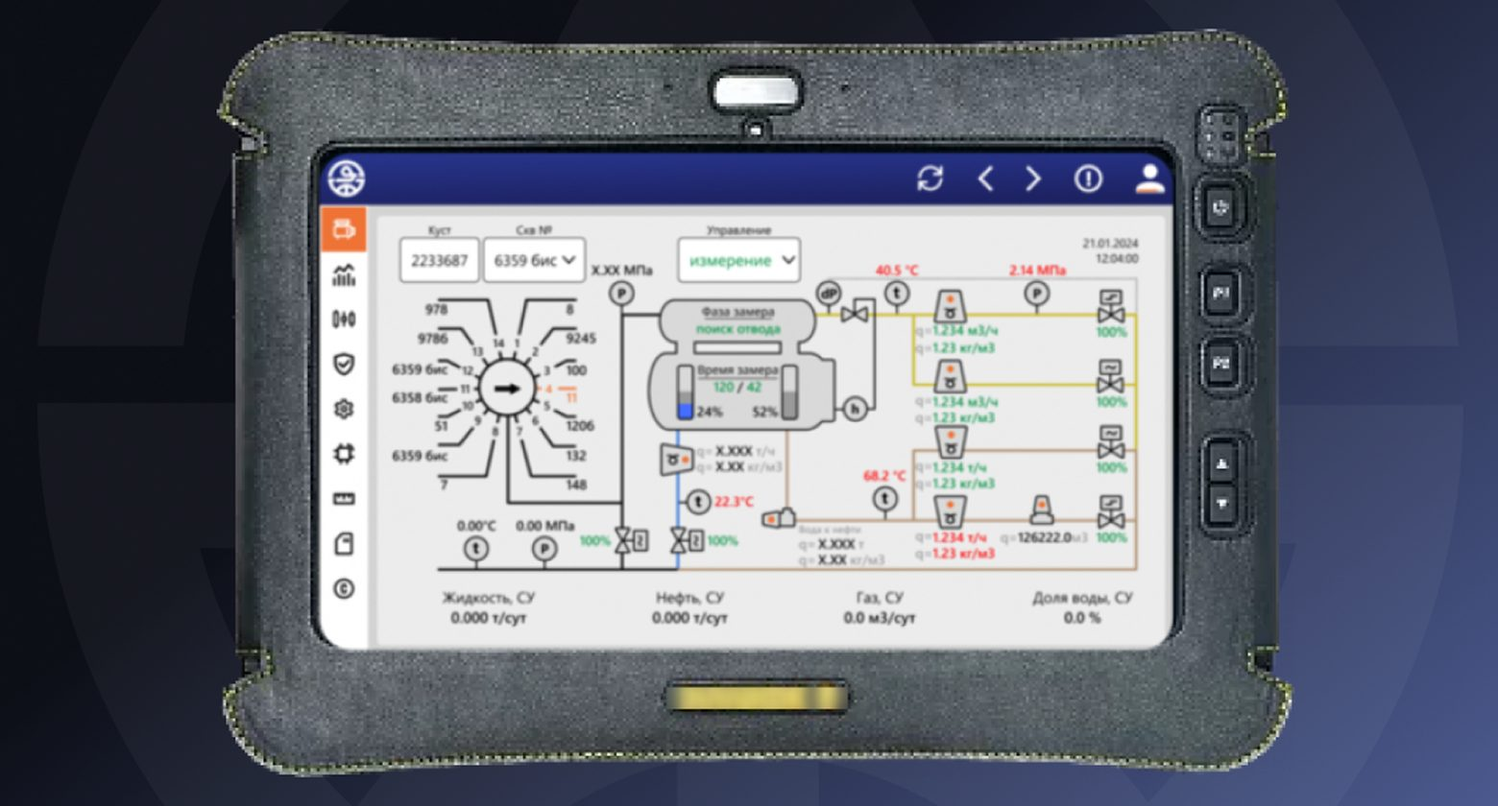
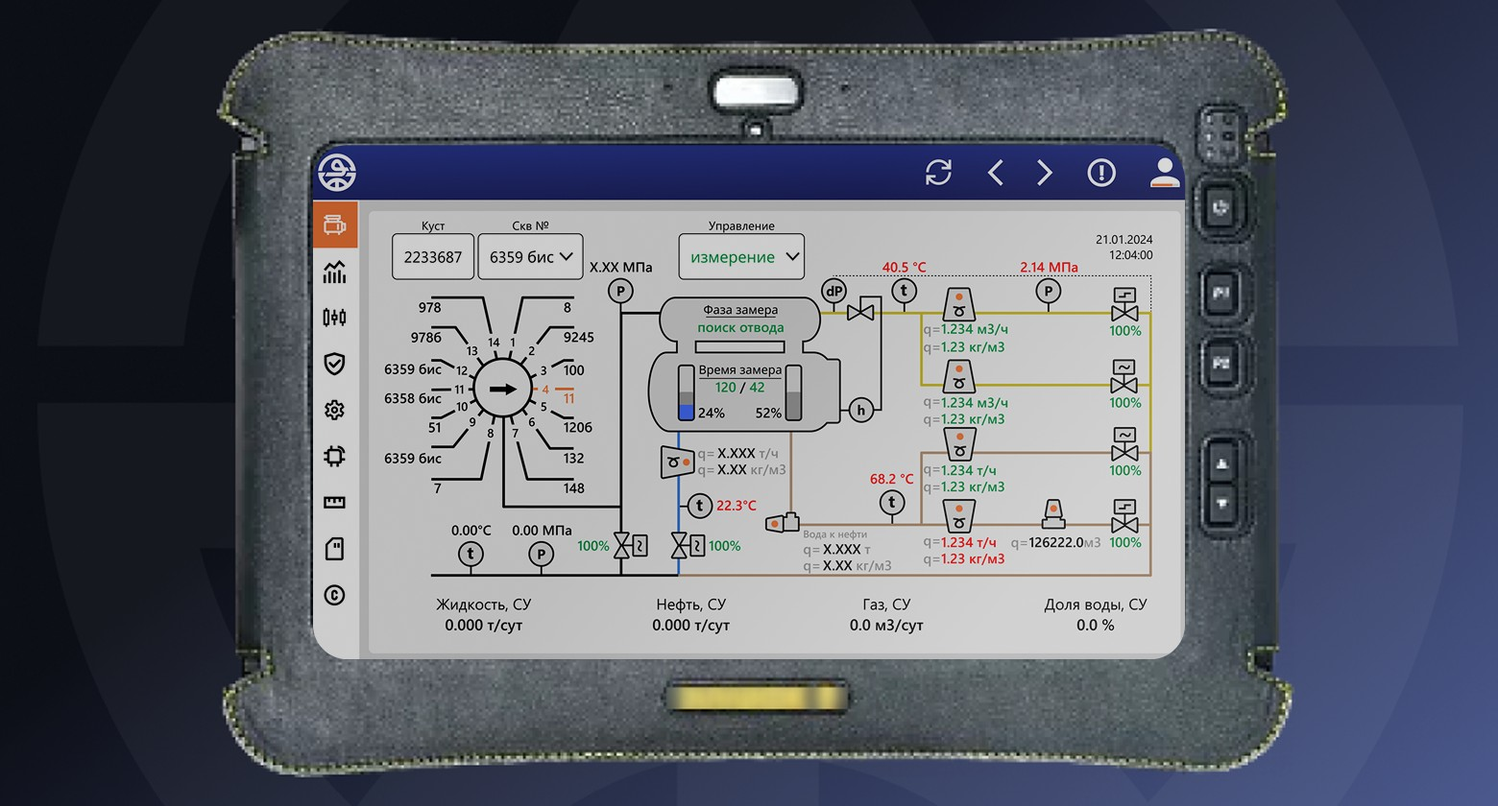
Add files via upload

diff --git a/index.html b/index.html
@@ -226,6 +226,69 @@ main{padding-bottom:calc(var(--dock) + 24px + env(safe-area-inset-bottom,0px))}
 .frame{height:clamp(420px,70vh,780px);overflow-y:auto;background:var(--tint);border:1px solid var(--line);overscroll-behavior:contain}
 .frame img{width:100%;height:auto}
 .hint{font-size:12px;letter-spacing:.06em;text-transform:uppercase;color:var(--muted)}
+/* скрин с пояснением, слайдер до/после, лайтбокс */
+.shot{display:grid;gap:18px;align-items:start}
+@media (min-width:1024px){.shot{grid-template-columns:minmax(0,1.75fr) minmax(260px,1fr);gap:28px}}
+.media{position:relative;background:var(--tint);overflow:hidden}
+.media>img{width:100%;height:auto}
+.pill{position:absolute;top:12px;z-index:3;font:500 12px/1 var(--f-mono);letter-spacing:.04em;padding:7px 10px;background:var(--ink);color:var(--bg);pointer-events:none}
+.pill--l{left:12px}.pill--r{right:12px}
+.zoom{position:absolute;z-index:4;bottom:12px;left:50%;transform:translateX(-50%);display:inline-flex;align-items:center;gap:7px;font:500 12px/1 var(--f-mono);padding:7px 11px;background:var(--bg);color:var(--ink);border:1px solid var(--line);cursor:zoom-in;transition:border-color .2s}
+.zoom:hover{border-color:var(--ink)}
+.zoom svg{width:13px;height:13px}
+.media:not(.ba) .zoom{left:auto;right:12px;transform:none}
+.ba{--pos:50%;aspect-ratio:1600/937;max-width:100%;touch-action:pan-y;cursor:ew-resize;user-select:none;-webkit-user-select:none}
+.ba img{position:absolute;inset:0;width:100%;height:100%;object-fit:cover;pointer-events:none}
+.ba__before{clip-path:inset(0 calc(100% - var(--pos)) 0 0)}
+.ba__line{position:absolute;top:0;bottom:0;left:var(--pos);width:2px;margin-left:-1px;background:var(--bg);z-index:2;box-shadow:0 0 0 1px rgb(0 0 0 / .12)}
+.ba__knob{position:absolute;top:50%;left:50%;transform:translate(-50%,-50%);width:46px;height:46px;border-radius:50%;border:0;background:var(--bg);color:var(--ink);box-shadow:0 6px 20px rgb(0 0 0 / .22);display:grid;place-items:center;font:500 15px/1 var(--f-mono);cursor:ew-resize;transition:transform .2s var(--ease)}
+.ba__knob:hover{transform:translate(-50%,-50%) scale(1.08)}
+.ba.is-hint .ba__before{transition:clip-path .9s var(--ease)}.ba.is-hint .ba__line{transition:left .9s var(--ease)}
+.note-card{background:var(--tint);padding:clamp(20px,2.2vw,28px);display:grid;gap:14px;align-content:start}
+.note-card h3{font-family:var(--f-logo);font-weight:500;font-size:clamp(17px,1.4vw,20px);letter-spacing:-.02em}
+.chg{justify-self:start;display:inline-flex;align-items:center;gap:7px;font:500 12.5px/1 var(--f-mono);padding:8px 12px;background:var(--bg)}
+.chg svg{width:14px;height:14px}
+.note-card p{font-family:var(--f-text);font-size:15.5px;line-height:1.65}
+.note-card p.why{color:var(--muted)}
+.note-card p.why b{color:var(--ink);font-weight:500}
+.lb{position:fixed;inset:0;z-index:90;background:color-mix(in srgb,var(--bg) 94%,transparent);backdrop-filter:blur(6px);-webkit-backdrop-filter:blur(6px);display:grid;place-items:center;padding:calc(56px + env(safe-area-inset-top,0px)) max(16px,env(safe-area-inset-right,0px)) calc(24px + env(safe-area-inset-bottom,0px)) max(16px,env(safe-area-inset-left,0px));animation:viewIn .3s var(--ease)}
+.lb__body{width:100%;display:grid;place-items:center;min-height:0}
+.lb__body>img{max-width:100%;max-height:calc(100svh - 110px);width:auto;height:auto}
+.lb .ba{width:min(100%, calc((100svh - 110px) * 1.7076))}
+.lb .zoom{display:none}
+.lb__close{position:absolute;top:calc(12px + env(safe-area-inset-top,0px));right:max(16px,env(safe-area-inset-right,0px));height:38px;padding:0 14px;font:500 13px/1 var(--f-mono);background:var(--ink);color:var(--bg);border:0;cursor:pointer}
+
+/* приоритизация гипотез (ICE) */
+.ice__head{display:none}
+.ice__row{display:grid;grid-template-columns:repeat(3,auto) 1fr;gap:12px 18px;padding:20px 0;border-top:1px solid var(--line);align-items:baseline}
+.ice__row:first-of-type{border-top:0;padding-top:0}
+.ice__row p{grid-column:1/-1;font-family:var(--f-text);font-size:16px;line-height:1.6}
+.ice__row span{font-size:13px;color:var(--muted);font-variant-numeric:tabular-nums}
+.ice__row span::before{content:attr(data-k) " "}
+.ice__score b{color:var(--ink);font-weight:700;font-size:16px}
+.ice__score i{display:block;height:3px;background:var(--line);margin-top:8px;position:relative;min-width:60px}
+.ice__score i::after{content:"";position:absolute;inset:0 auto 0 0;width:var(--w);background:var(--ink)}
+.ice__note{font-size:12.5px;color:var(--muted);margin-top:18px}
+@media (min-width:768px){
+  .ice__head,.ice__row{grid-template-columns:minmax(0,1fr) 64px 92px 52px 100px;gap:20px}
+  .ice__head{display:grid;padding-bottom:14px;border-bottom:1px solid var(--line);margin-bottom:20px}
+  .ice__head span:not(:first-child){text-align:right}
+  .ice__row p{grid-column:auto}
+  .ice__row span{text-align:right;font-size:14.5px;color:var(--ink)}
+  .ice__row span::before{content:none}
+  .ice__score{text-align:right}
+}
+.chips{display:flex;flex-wrap:wrap;gap:8px;margin-bottom:28px}
+.chips span{font-size:13.5px;padding:9px 13px;background:var(--tint)}
+
+/* карточки метрик */
+.res{background:var(--tint);padding:22px;gap:10px!important;grid-template-rows:auto auto 1fr auto;align-content:stretch!important}
+.res strong{font-size:clamp(28px,2.6vw,40px)!important}
+.res__t{font-weight:500;font-size:14.5px}
+.res span{font-family:var(--f-text);font-size:14.5px!important;line-height:1.6}
+.st{justify-self:start;align-self:end;margin-top:6px;display:inline-flex;align-items:center;gap:7px;font:500 12px/1 var(--f-mono);font-style:normal;padding:7px 10px;background:var(--bg)}
+.st::before{content:"";width:7px;height:7px;border-radius:50%;background:var(--muted)}
+.st--ok::before{background:var(--ok)}
 .results{display:grid;grid-template-columns:repeat(auto-fit,minmax(180px,1fr));gap:32px 24px}
 .results div{display:grid;gap:8px;align-content:start}
 .results strong{font-family:var(--f-logo);font-weight:500;font-size:clamp(24px,2.4vw,34px);line-height:1;letter-spacing:-.02em;font-variant-numeric:tabular-nums}
@@ -440,9 +503,21 @@ const PROJECTS = [
       ['UX-тестирования','Провела первые в компании модерируемые тесты, а также коридорные и A/B-тесты.'],
       ['Дизайн-система','Токены цвета, типографики и отступов, документация для двух команд разработки.']],
     gallery:[
-      {src:'sc-editor.jpg',w:'full',cap:'Редактор мнемосхем: дерево объектов слева, холст в центре, свойства и привязка сигнала справа. Статусы задвижек видны прямо на схеме.'},
-      {src:'sc-table.jpg',cap:'Журнал замеров по скважинам: фильтры-чипы, выбор периода, экспорт и график изменений под таблицей.'},
-      {src:'sc-chart.jpg',cap:'Сравнение показаний виртуального расходомера и датчика потока на одном графике с общим курсором.'}],
+      {src:'sc-editor.jpg', title:'Редактор мнемосхем',
+       change:'Редактор собран в три зоны: дерево объектов, холст и панель свойств. Привязка сигнала живёт рядом со схемой, редкие действия ушли в контекстное меню с горячими клавишами.',
+       why:'Инженер собирал схему, переключаясь между окнами, а у конкурентов на одном экране десятки панелей. Ключевые действия должны быть под рукой, остальное открываться по контексту.'},
+      {src:'sc-table.jpg', title:'Журнал замеров',
+       change:'Таблица замеров с фильтрами-чипами, выбором периода и экспортом. Под таблицей график изменений за тот же период.',
+       why:'Чтобы сравнить показания, оператор выгружал данные и сводил их вручную. Теперь история и динамика видны на одном экране.'},
+      {src:'sc-chart.jpg', title:'График скважины',
+       change:'Показания виртуального расходомера и датчика потока на одном графике с общим курсором и значениями в легенде.',
+       why:'Расхождение между двумя источниками важно заметить сразу, а не сверять цифры в двух окнах.'}],
+    ice:[
+      ['Если выделить аварийные статусы цветом и плашками прямо на схеме, оператор быстрее заметит отклонение.',9,8,8],
+      ['Если вынести привязку сигнала в панель свойств рядом с холстом, инженер реже ошибётся при привязке.',7,7,8],
+      ['Если собрать редактор в три зоны (объекты, холст, свойства), инженер быстрее соберёт типовую мнемосхему.',8,8,6],
+      ['Если повторить паттерны графических редакторов (контекстное меню, горячие клавиши), новый инженер начнёт работать без обучения.',6,7,9],
+      ['Если добавить журнал замеров с фильтрами и графиком за период, оператору не придётся выгружать данные вручную.',7,7,5]],
     results:[['~20%','быстрее отрисовка типовых мнемосхем'],['3.2 → 4.5','CES ключевых сценариев из 5'],['−30%','времени на проектирование'],['−25%','вопросов от разработчиков']] },
   { id:'landing', title:'OZNA Digital Solutions', img:'landing.jpg', focus:'50% 40%', year:'2024',
     tags:'Лендинг · Desktop · Mobile',
@@ -459,13 +534,35 @@ const PROJECTS = [
     tags:'Планшет · Touch · Полевые условия',
     short:'Интерфейс расходомера для планшета. Повысила читаемость данных и сделала управление удобным даже в перчатках.',
     meta:{'Роль':'UX/UI-дизайнер','Компания':'ОЗНА','Платформа':'Планшет, Linux','Условия':'Работа в перчатках на улице'},
-    task:['Оператор пользуется планшетом на улице и в перчатках. Мелкие элементы и плотные экраны приводили к ошибочным нажатиям и плохой читаемости.','Задача: адаптировать продукт под планшет и спроектировать новые экраны внутри него.'],
-    process:[['Анализ условий','Изучила, где и как используется устройство и какие данные нужны в первую очередь.'],['Тест «до»','Зафиксировала исходное количество ошибочных нажатий.'],['Редизайн','Увеличила touch-зоны и кнопки, перестроила иерархию данных.'],['Тест «после»','Повторила тестирование и сравнила с исходными результатами.']],
+    task:['Оператор работает с планшетом на улице и в перчатках. Мелкие кнопки, меню из одних иконок и технические имена параметров (t_lc, kv_sg, wcfg) приводили к промахам и мешали быстро прочитать показания.',
+          'Задача: адаптировать продукт под планшет в полевых условиях и спроектировать новые экраны внутри него.'],
+    process:[
+      ['Анализ условий','Изучила, где и как используется устройство и какие данные нужны в первую очередь.'],
+      ['Аудит экранов','Собрала проблемы: мелкие touch-зоны, меню без подписей, технические имена вместо понятных названий, одинаковый цвет для нормы и отклонения.'],
+      ['Тест «до»','Зафиксировала исходное количество ошибочных нажатий.'],
+      ['Редизайн','Увеличила touch-зоны и кнопки, подписала меню, заменила теги понятными названиями, перестроила иерархию данных.'],
+      ['Тест «после»','Повторила тестирование и сравнила с исходными результатами.']],
+    ice:[
+      ['Если увеличить кнопки и пункты меню под работу в перчатках, ошибочных нажатий станет меньше.',10,9,8],
+      ['Если заменить технические имена (t_lc, kv_sg) понятными названиями с единицами, оператор прочитает показание без справочника.',9,8,7],
+      ['Если подписать пункты меню текстом, а не только иконками, оператор быстрее найдёт нужный раздел.',7,8,9],
+      ['Если сделать значения крупнее и выделить отклонения цветом, их будет видно на улице при ярком свете.',8,8,7],
+      ['Если показать диагностику списком проверок «да/нет», оператор сразу увидит, что именно неисправно.',8,7,6]],
     gallery:[
-      {src:'ms-scheme.jpg',w:'full',cap:'Мнемосхема замерной установки: крупные значения, цветовые статусы и итоговые показатели внизу экрана.'},
-      {src:'ms-switch.jpg',cap:'Диагностика переключателя скважин: каждая проверка в отдельной строке, неисправность выделена цветом.'},
-      {src:'ms-measure.jpg',cap:'Таблица измерений: фильтры сверху, крупные строки и пункты меню, удобные для нажатия в перчатках.'}],
-    results:[['Крупнее','touch-зоны и кнопки для работы в перчатках'],['Меньше','ошибочных нажатий по тестам до и после']] },
+      {src:'ms-scheme.jpg', before:'ms-scheme-before.jpg', title:'Мнемосхема',
+       change:'Технические имена (t_lc, pcoll, AIValueBox) заменены понятными подписями с единицами. Значения крупнее, отклонения выделены красным, норма зелёным.',
+       why:'Оператор не обязан помнить имена тегов. В поле на схему есть секунды, а прочерки и одинаковый цвет не показывают, где проблема.'},
+      {src:'ms-switch.jpg', before:'ms-switch-before.jpg', title:'Переключатель скважин',
+       change:'Сырые параметры конфигурации (wcfg, kv_sg) превратились в диагностику: каждая проверка отдельной строкой с ответом «да/нет», неисправность выделена цветом.',
+       why:'Список переменных без расшифровки не отвечает на главный вопрос оператора: исправен ли переключатель и что сломалось.'},
+      {src:'ms-measure.jpg', before:'ms-measure-before.jpg', title:'Измерение',
+       change:'Вместо журнала с пустыми колонками таблица показателей по фазам: жидкость, нефть, вода, газ с единицами. Меню стало крупнее и получило подписи.',
+       why:'Иконки без подписей приходилось запоминать, а в перчатках по мелким пунктам легко промахнуться.'}],
+    results:[
+      {v:'↓', t:'Misclick rate', d:'Доля ошибочных нажатий в перчатках. Крупные кнопки и пункты меню, сравнили на тестах до и после.'},
+      {v:'↑', t:'Читаемость показаний', d:'Понятные названия вместо тегов, крупные значения и цветовые статусы.'},
+      {v:'↓', t:'Time on task', d:'Время, за которое оператор находит нужный показатель: меню подписано, не нужно вспоминать, что за иконкой или тегом.'},
+      {v:'↑', t:'Task success rate', d:'Доля задач, которые оператор выполняет сам, без справочника по тегам и звонка инженеру.'}] },
   { id:'essence', title:'Essence', img:'essence.jpg', focus:'50% 50%', year:'2023',
     tags:'E-commerce · Mobile · Fashion',
     short:'Мобильное приложение магазина одежды. Полный цикл за 2,5 недели: от исследований до интерактивного прототипа.',
@@ -490,6 +587,27 @@ document.getElementById('works').innerHTML = PROJECTS.map((p,i)=>`
       <span class="tg">${esc(p.tags)}</span><p>${esc(p.short)}</p></div>
   </a>`).join('');
 
+const ICON_CHG = '<svg viewBox="0 0 16 16" fill="none" stroke="currentColor" stroke-width="1.5" aria-hidden="true"><path d="M13.5 6.5A5.5 5.5 0 0 0 3.2 4.6M2.5 9.5a5.5 5.5 0 0 0 10.3 1.9M3 2v3h3M13 14v-3h-3"/></svg>';
+const ICON_ZOOM = '<svg viewBox="0 0 16 16" fill="none" stroke="currentColor" stroke-width="1.5" aria-hidden="true"><circle cx="7" cy="7" r="4.5"/><path d="M10.5 10.5 14 14M7 5v4M5 7h4"/></svg>';
+/* картинка или слайдер «до/после» с кнопкой «Приблизить» */
+function mediaHTML(g){
+  const zoom = `<button class="zoom" type="button" data-zoom>${ICON_ZOOM}Приблизить</button>`;
+  if(g.before) return `<div class="media ba" data-ba>
+      <img class="ba__after" src="${g.src}" alt="${esc(g.title||'')}, после" loading="lazy">
+      <img class="ba__before" src="${g.before}" alt="${esc(g.title||'')}, до" loading="lazy">
+      <span class="pill pill--l">До</span><span class="pill pill--r">После</span>${zoom}
+      <div class="ba__line"><button class="ba__knob" type="button" role="slider" aria-label="Сравнить до и после" aria-valuemin="0" aria-valuemax="100" aria-valuenow="50">‹›</button></div>
+    </div>`;
+  return `<div class="media"><img src="${g.src}" alt="${esc(g.title||g.cap||'')}" loading="lazy">${zoom}</div>`;
+}
+/* ICE: оценки 1–10, итог = I × C × E, сортировка по убыванию */
+function iceHTML(list){
+  const rows = list.map(h=>({t:h[0],i:h[1],c:h[2],e:h[3],s:h[1]*h[2]*h[3]})).sort((a,b)=>b.s-a.s);
+  return `<div class="ice"><div class="ice__head label"><span>Гипотеза</span><span>Impact</span><span>Confidence</span><span>Ease</span><span>ICE</span></div>
+    ${rows.map(r=>`<div class="ice__row"><p>${esc(r.t)}</p><span data-k="Impact">${r.i}</span><span data-k="Confidence">${r.c}</span><span data-k="Ease">${r.e}</span><span class="ice__score" data-k="ICE"><b>${r.s}</b></span></div>`).join('')}
+    </div><p class="ice__note">ICE = Impact × Confidence × Ease, каждый параметр от 1 до 10.</p>`;
+}
+
 function caseHTML(p){
   const i = PROJECTS.indexOf(p), n = PROJECTS[(i+1)%PROJECTS.length];
   const row = (l,b)=>`<div class="row"><span class="label">${l}</span>${b}</div>`;
@@ -501,15 +619,19 @@ function caseHTML(p){
   <dl class="meta">${Object.entries(p.meta).map(([k,v])=>`<div><dt class="label">${esc(k)}</dt><dd>${esc(v)}</dd></div>`).join('')}</dl>
   ${row('Задача',`<div class="row__body">${p.task.map((t,j)=>`<p${j?' class="muted"':''}>${esc(t)}</p>`).join('')}</div>`)}
   ${p.users ? row('Пользователи',`<div class="segs">${p.users.map(u=>`<div class="seg"><h3>${esc(u.who)}</h3><p class="seg__role">${esc(u.role)}</p><span class="label">Боли</span><ul>${u.pains.map(x=>`<li>${esc(x)}</li>`).join('')}</ul></div>`).join('')}</div>`) : ''}
-  ${p.compare ? row('Конкуренты',`<div class="cmp"><p class="cmp__names">${esc(p.compare.names)}</p><div class="cmp__head" aria-hidden="true"><span class="label">Проблема у конкурентов</span><span class="label">Как решили мы</span></div>${p.compare.rows.map(r=>`<div class="cmp__row"><div><b>${esc(r[0])}</b><p>${esc(r[1])}</p></div><p class="cmp__ours"><span class="label">Решение</span>${esc(r[2])}</p></div>`).join('')}</div>`) : ''}
+  ${p.compare ? row('Конкуренты',`<div class="cmp"><div class="chips">${p.compare.names.split(' · ').map(n=>`<span>${esc(n)}</span>`).join('')}</div><div class="cmp__head" aria-hidden="true"><span class="label">Проблема у конкурентов</span><span class="label">Как решили мы</span></div>${p.compare.rows.map(r=>`<div class="cmp__row"><div><b>${esc(r[0])}</b><p>${esc(r[1])}</p></div><p class="cmp__ours"><span class="label">Решение</span>${esc(r[2])}</p></div>`).join('')}</div>`) : ''}
   ${row('Процесс',`<div class="steps">${p.process.map((s,j)=>`<div><span>${String(j+1).padStart(2,'0')}</span><p><b>${esc(s[0])}</b>${esc(s[1])}</p></div>`).join('')}</div>`)}
+  ${p.ice ? row('Гипотезы', iceHTML(p.ice)) : ''}
   <div class="wide"><span class="label">Решения</span><div class="gal">${p.gallery.map(g=>{
     const cls = g.w==='full' ? ' class="full"' : '';
+    if(g.change) return `<figure class="full shot">${mediaHTML(g)}<div class="note-card">${g.title?`<h3>${esc(g.title)}</h3>`:''}<span class="chg">${ICON_CHG}Изменили</span><p>${esc(g.change)}</p><p class="why"><b>Почему:</b> ${esc(g.why)}</p></div></figure>`;
     if(g.t==='phones') return `<figure${cls}><div class="phones">${g.src.map(s=>`<img src="${s}" alt="" loading="lazy">`).join('')}</div><figcaption>${esc(g.cap)}</figcaption></figure>`;
     if(g.t==='scroll') return `<figure${cls}><div class="frame" tabindex="0" aria-label="${esc(g.cap)}"><img src="${g.src}" alt="${esc(g.cap)}" loading="lazy"></div><figcaption>${esc(g.cap)} <span class="hint">· прокрутите</span></figcaption></figure>`;
     return `<figure${cls}><div class="g-img"><img src="${g.src}" alt="${esc(g.cap)}" loading="lazy"></div><figcaption>${esc(g.cap)}</figcaption></figure>`;
   }).join('')}</div></div>
-  ${row('Результаты',`<div class="results">${p.results.map(r=>`<div><strong>${esc(r[0])}</strong><span>${esc(r[1])}</span></div>`).join('')}</div>`)}
+  ${row('Результаты',`<div class="results">${p.results.map(r=> Array.isArray(r)
+      ? `<div><strong>${esc(r[0])}</strong><span>${esc(r[1])}</span></div>`
+      : `<div class="res"><strong>${esc(r.v)}</strong><b class="res__t">${esc(r.t)}</b><span>${esc(r.d)}</span>${r.s?`<em class="st st--${r.s}">${r.s==='ok'?'Подтверждено тестами':'Ожидаемый эффект'}</em>`:''}</div>`).join('')}</div>`)}
   <a class="next" href="#${n.id}"><span class="label">Следующий проект</span><h2>${esc(n.title)} →</h2></a>`;
 }
 
@@ -550,7 +672,7 @@ const spy = new IntersectionObserver(es=>{
 
 /* элементы, которые мягко появляются при прокрутке */
 function markReveal(root){
-  root.querySelectorAll('.head,.work,.row,.job,.wide figure,.next,.meta,.case-cover,.seg,.cmp__row').forEach(el=>el.classList.add('rv'));
+  root.querySelectorAll('.head,.work,.row,.job,.wide figure,.next,.meta,.case-cover,.seg,.cmp__row,.shot,.ice__row,.res').forEach(el=>el.classList.add('rv'));
 }
 
 /* типографика: короткие слова (в, и, из, для…) и тире не остаются в конце строки */
@@ -582,6 +704,64 @@ document.querySelectorAll('[data-copy]').forEach(b=>b.addEventListener('click',(
   const fail = ()=>{ const r=document.createRange(); r.selectNodeContents(b); const s=getSelection(); s.removeAllRanges(); s.addRange(r); toast('Почта выделена — скопируйте её'); };
   try{ navigator.clipboard.writeText(mail).then(()=>toast('Почта скопирована'), fail); }catch(_){ fail(); }
 }));
+
+/* слайдер «до/после»: перетаскивание, клик, стрелки */
+function setPos(ba, x){
+  const r = ba.getBoundingClientRect();
+  const v = Math.max(0, Math.min(100, (x - r.left) / r.width * 100));
+  ba.style.setProperty('--pos', v + '%');
+  const k = ba.querySelector('.ba__knob'); if(k) k.setAttribute('aria-valuenow', Math.round(v));
+}
+document.addEventListener('pointerdown', e=>{
+  const ba = e.target.closest('[data-ba]');
+  if(!ba || e.target.closest('.zoom')) return;
+  ba.classList.remove('is-hint');
+  setPos(ba, e.clientX);
+  const move = ev=>setPos(ba, ev.clientX);
+  const up = ()=>{ window.removeEventListener('pointermove', move); window.removeEventListener('pointerup', up); window.removeEventListener('pointercancel', up); };
+  window.addEventListener('pointermove', move); window.addEventListener('pointerup', up); window.addEventListener('pointercancel', up);
+});
+document.addEventListener('keydown', e=>{
+  const k = e.target.closest && e.target.closest('.ba__knob');
+  if(!k || !/Arrow(Left|Right)|Home|End/.test(e.key)) return;
+  e.preventDefault();
+  const ba = k.closest('[data-ba]');
+  let v = parseFloat(getComputedStyle(ba).getPropertyValue('--pos')) || 50;
+  v = e.key==='Home' ? 0 : e.key==='End' ? 100 : v + (e.key==='ArrowLeft' ? -5 : 5);
+  v = Math.max(0, Math.min(100, v));
+  ba.style.setProperty('--pos', v + '%'); k.setAttribute('aria-valuenow', Math.round(v));
+});
+/* подсказка: при первом показе линия слегка сдвигается, чтобы было понятно, что её можно тянуть */
+const hintIO = new IntersectionObserver(es=>es.forEach(en=>{
+  if(!en.isIntersecting || matchMedia('(prefers-reduced-motion:reduce)').matches) return;
+  const ba = en.target; hintIO.unobserve(ba); ba.classList.add('is-hint');
+  setTimeout(()=>ba.style.setProperty('--pos','32%'), 250);
+  setTimeout(()=>ba.style.setProperty('--pos','50%'), 1150);
+  setTimeout(()=>ba.classList.remove('is-hint'), 2100);
+}),{threshold:.6});
+new MutationObserver(()=>document.querySelectorAll('#v-case [data-ba]:not([data-h])').forEach(b=>{ b.dataset.h=1; hintIO.observe(b); }))
+  .observe(document.getElementById('v-case'),{childList:true});
+
+/* «Приблизить»: экран целиком поверх страницы */
+let lb = null;
+function closeLb(){ if(!lb) return; lb.remove(); lb = null; document.documentElement.style.overflow=''; }
+document.addEventListener('click', e=>{
+  const z = e.target.closest('[data-zoom]');
+  if(z){
+    const media = z.closest('.media').cloneNode(true);
+    if(media.matches('[data-ba]')) media.removeAttribute('data-h');
+    lb = document.createElement('div'); lb.className='lb'; lb.setAttribute('role','dialog'); lb.setAttribute('aria-modal','true');
+    lb.innerHTML = '<button class="lb__close" type="button">Закрыть ×</button><div class="lb__body"></div>';
+    const body = lb.querySelector('.lb__body');
+    body.append(media.matches('[data-ba]') ? media : media.querySelector('img'));
+    document.body.append(lb); document.documentElement.style.overflow='hidden';
+    lb.querySelector('.lb__close').focus();
+    return;
+  }
+  if(lb && (e.target.closest('.lb__close') || e.target===lb || e.target.classList.contains('lb__body'))) closeLb();
+});
+document.addEventListener('keydown', e=>{ if(e.key==='Escape') closeLb(); });
+window.addEventListener('hashchange', closeLb);
 
 /* местное время в шапке — удобно рекрутеру из другого часового пояса */
 const clock = document.getElementById('clock');
